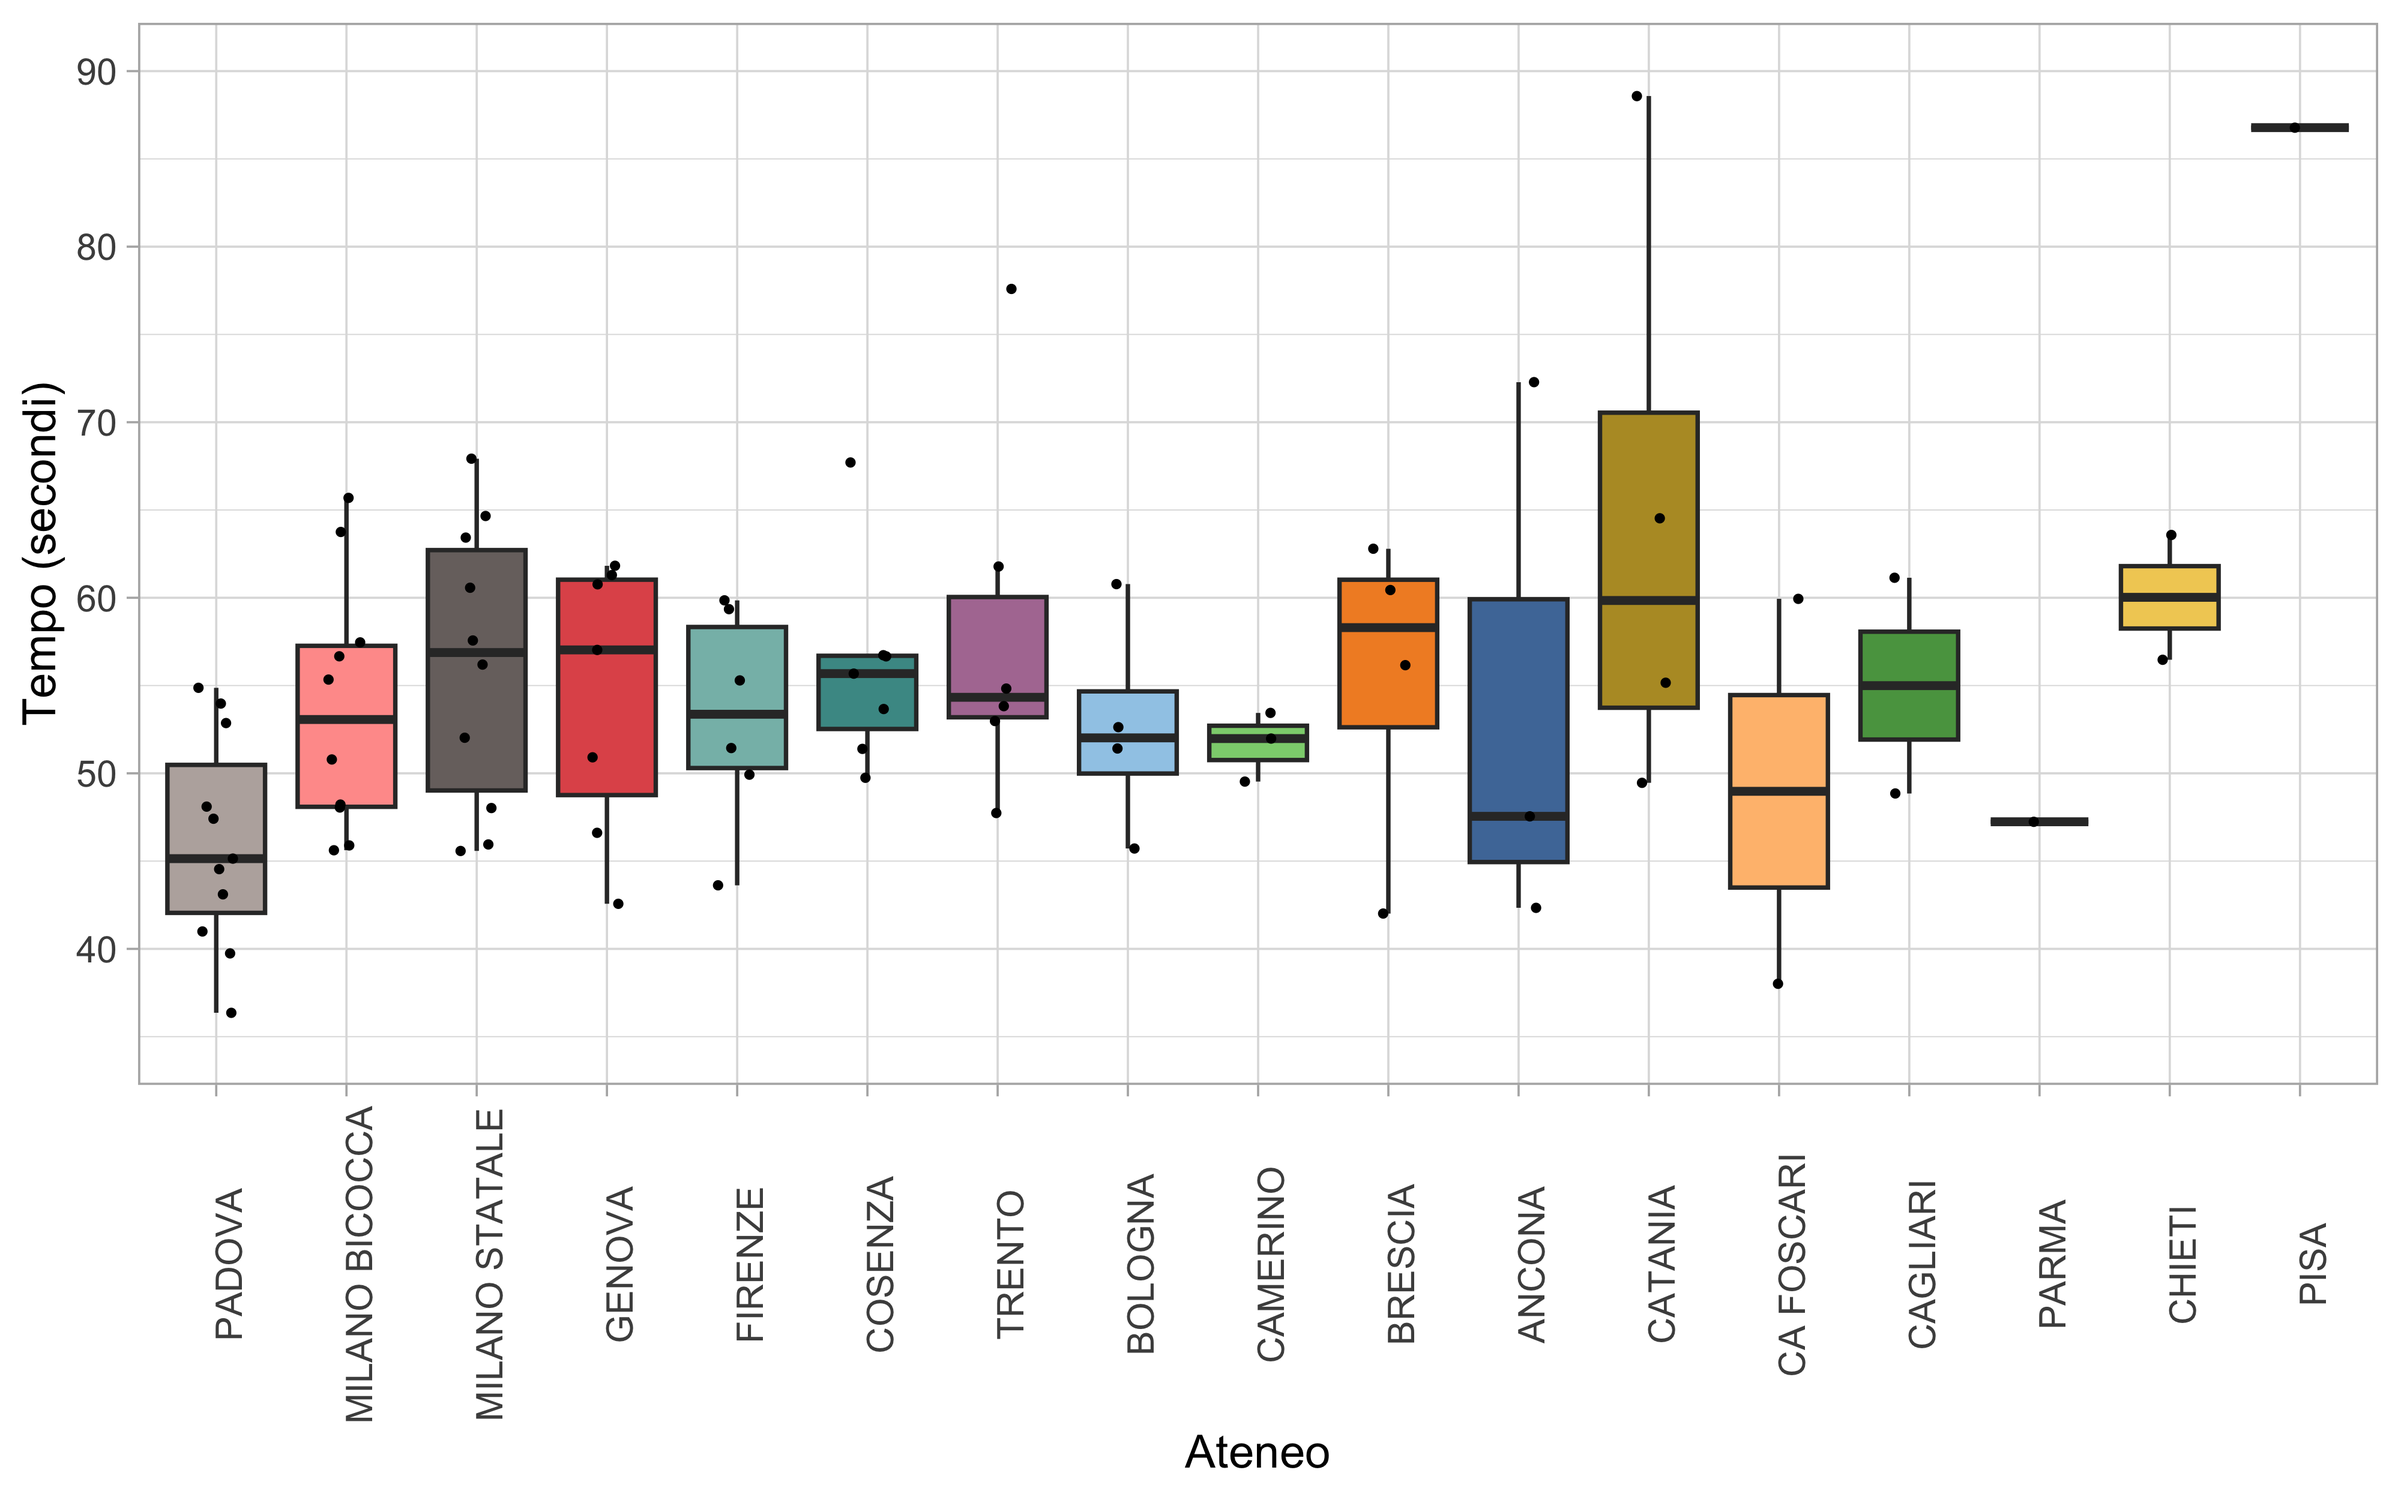
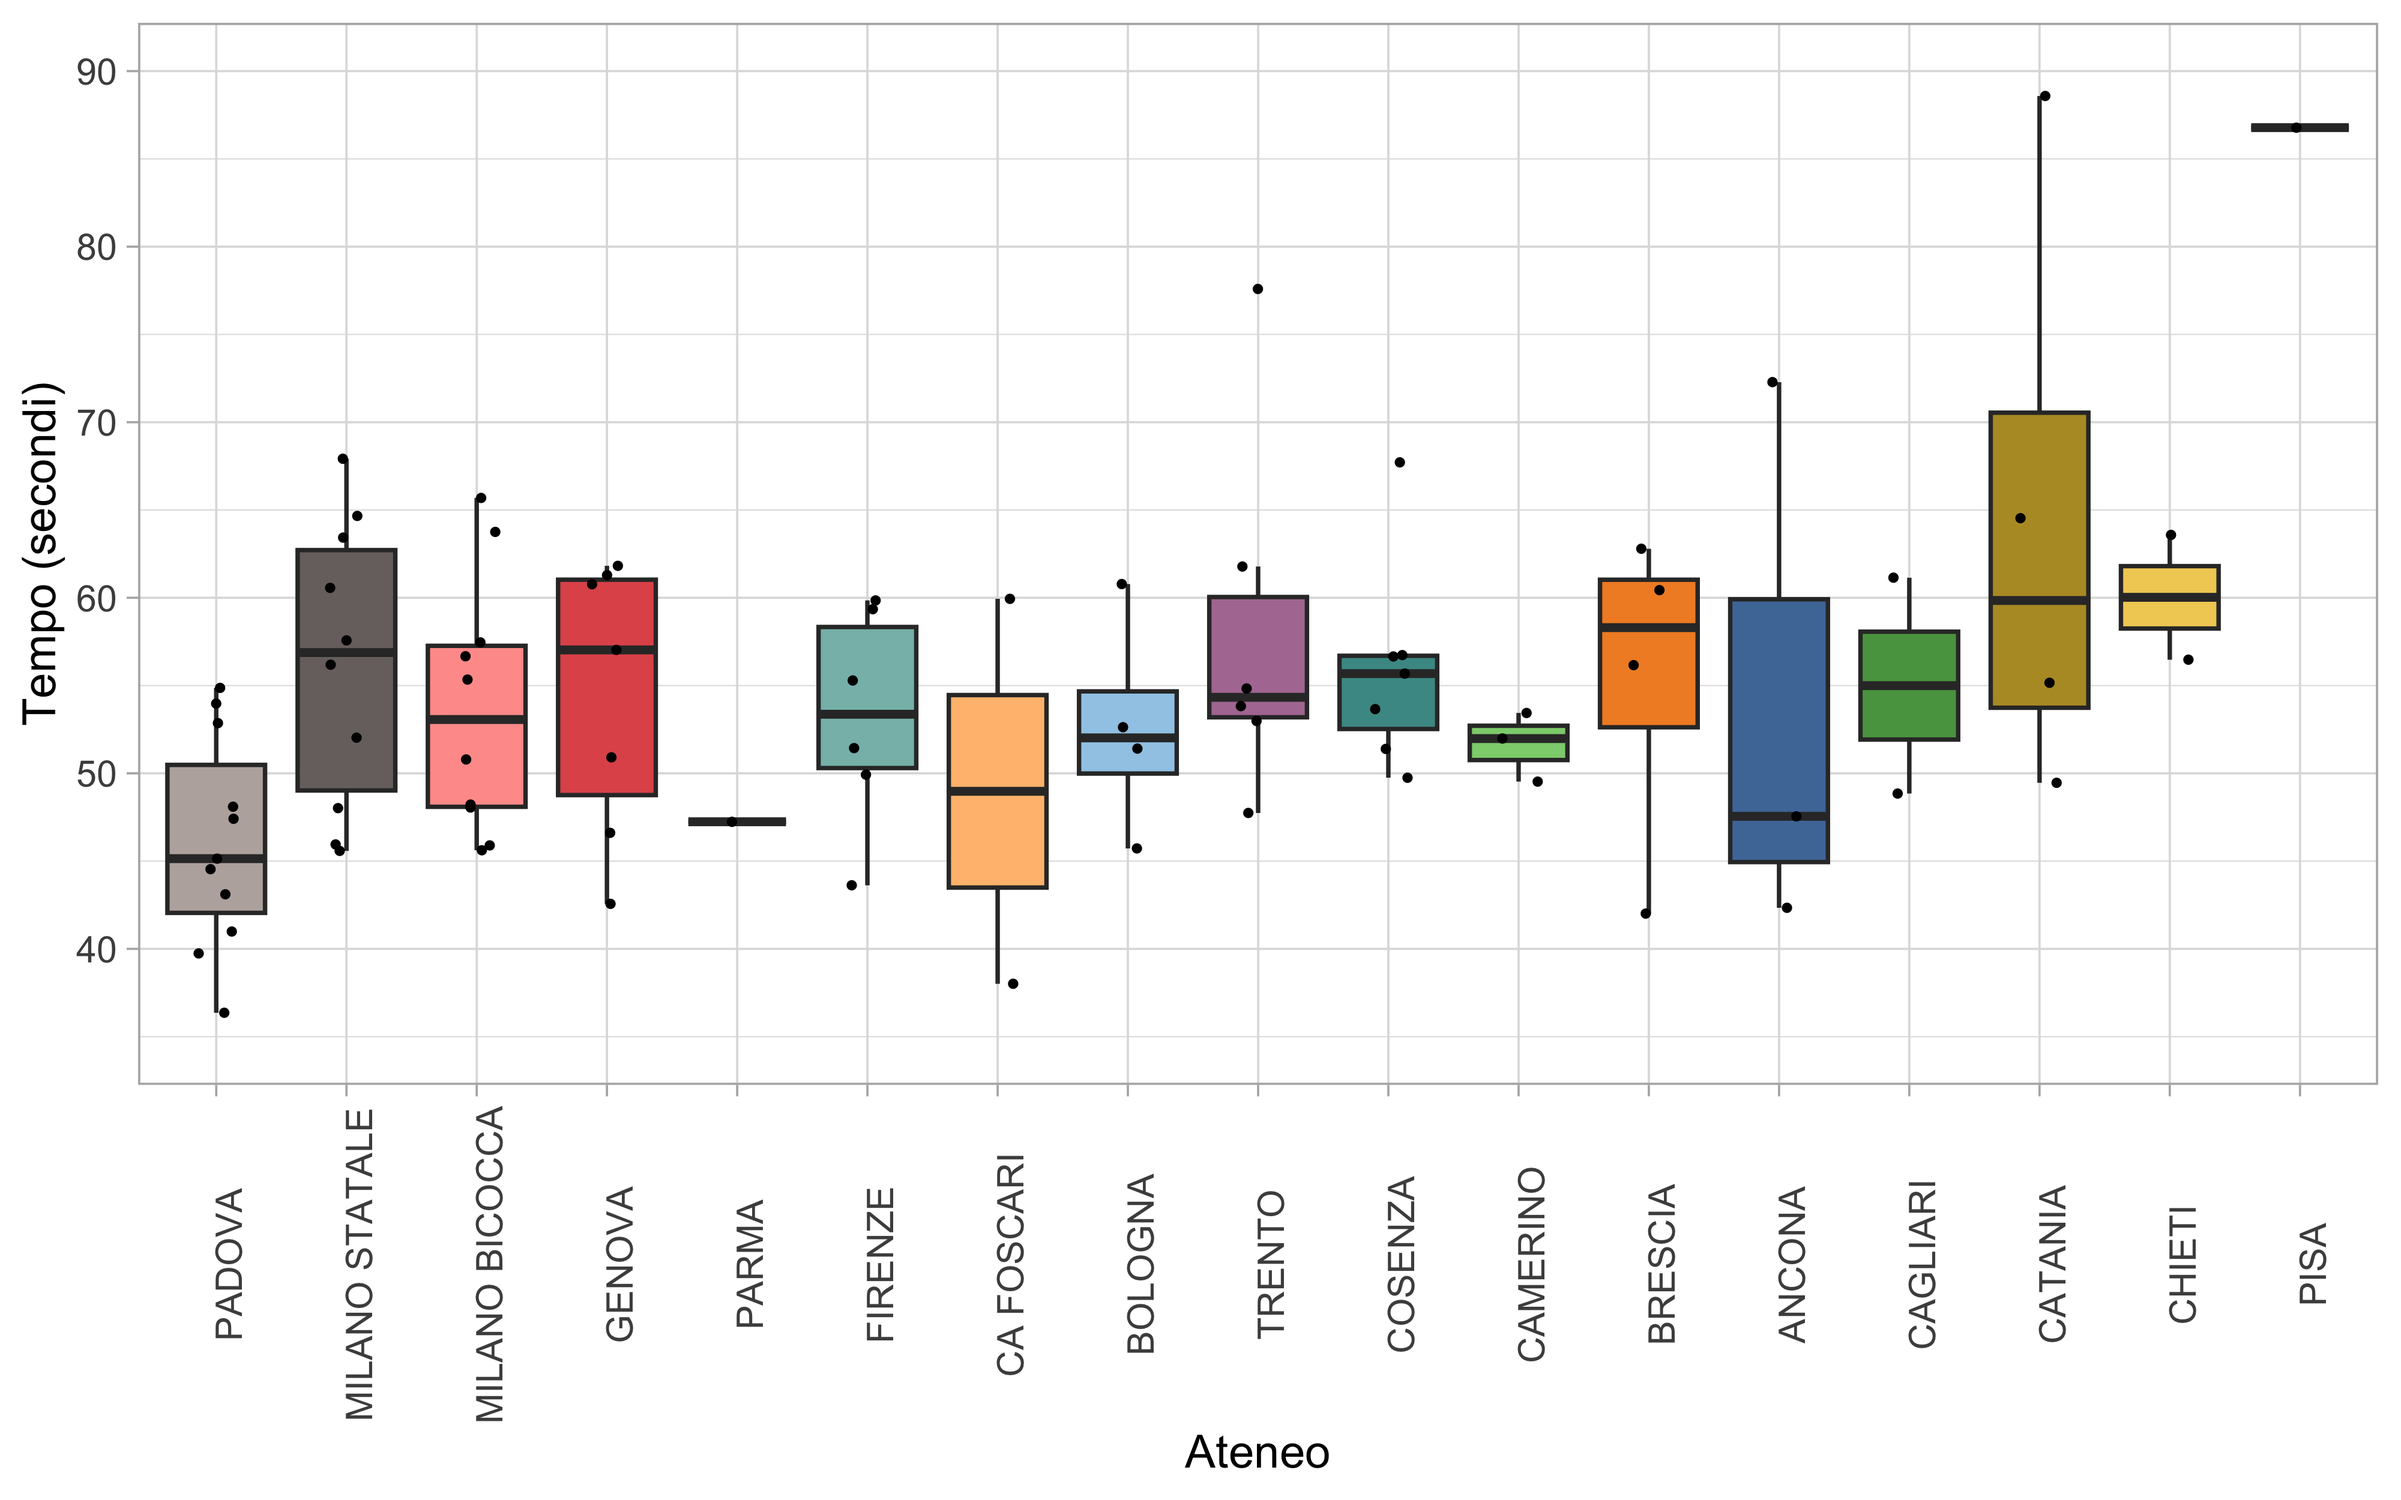
asd

diff --git a/docs/post/anciu24/anciu2024.html b/docs/post/anciu24/anciu2024.html
@@ -218,6 +218,7 @@ ul.task-list li input[type="checkbox"] {
 <section id="tempi-di-arrivo-per-ateneo-gigante-femminile" class="level4">
 <h4 class="anchored" data-anchor-id="tempi-di-arrivo-per-ateneo-gigante-femminile">Tempi di arrivo per ateneo (Gigante, Femminile)</h4>
 <p>Ho rimosso <span class="math inline">4</span> tempi anomali, ovvero superiori ai 100 secondi, per migliorare la leggibilità del grafico.</p>
+<p>Gli atenei sono stati ordinati considerando la media dei migliori tre tempi.</p>
 <div class="cell">
 <div class="cell-output-display">
 <p><img src="anciu2024_files/figure-html/unnamed-chunk-5-1.png" class="img-fluid" width="2000"></p>
